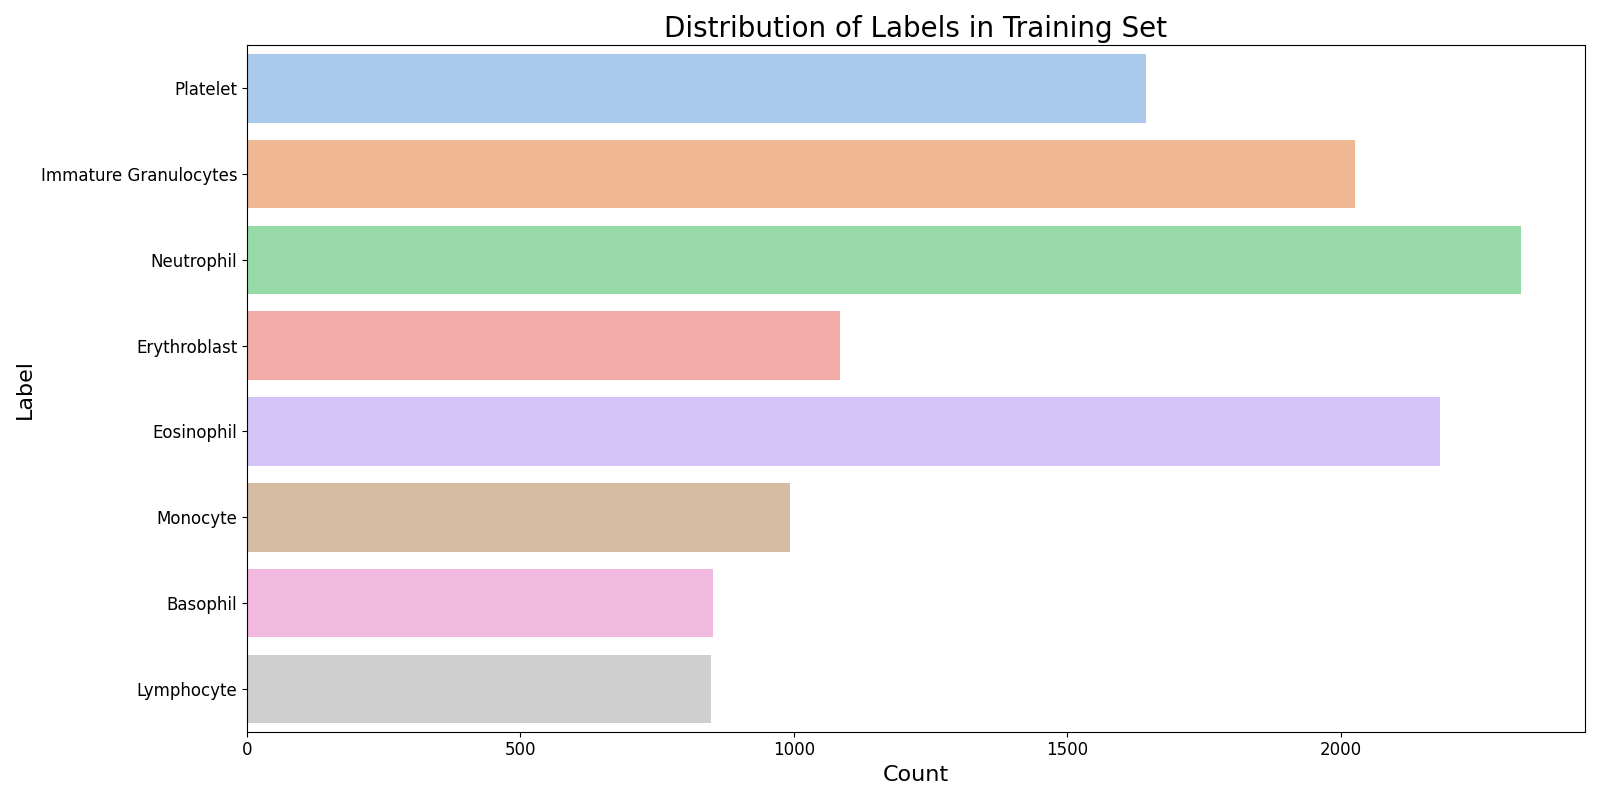
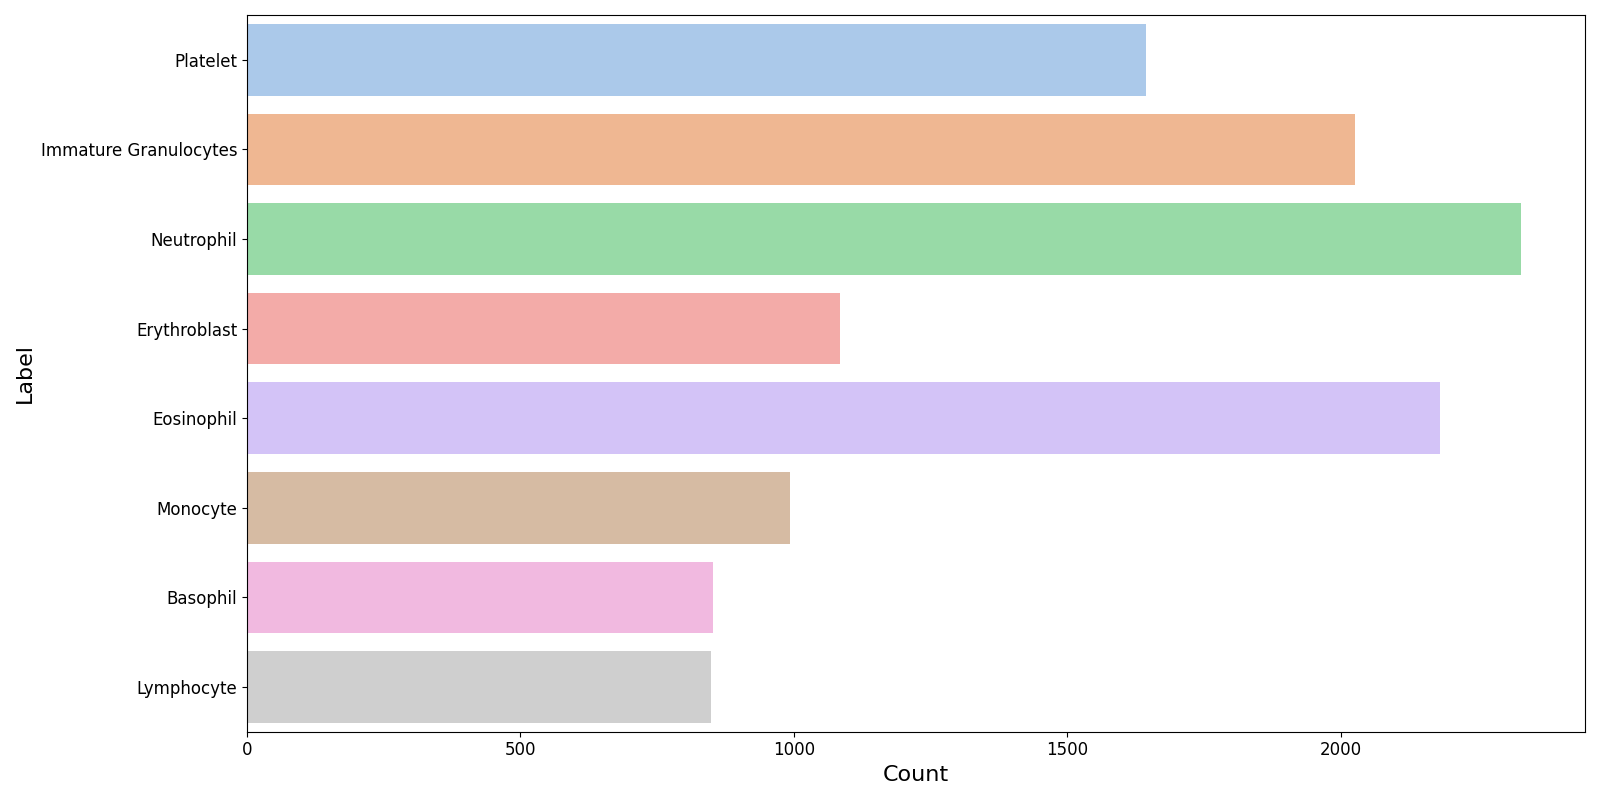
added plot

diff --git a/data_visualization.py b/data_visualization.py
@@ -71,9 +71,30 @@ print(df_label_counts)
 # Plot the distribution of labels
 plt.figure(figsize=(16, 8))
 sns.countplot(y='Label', data=df_labels, palette='pastel')
-plt.title('Distribution of Labels in Training Set', fontsize=20)
+# plt.title('Distribution of Labels in Training Set', fontsize=20)
 plt.xlabel('Count', fontsize=16)
 plt.ylabel('Label', fontsize=16)
 plt.tick_params(axis='both', which='major', labelsize=12)
 plt.tight_layout()
 plt.savefig("plots/train_label_distribution.png")
+
+
+# 3. Visualize the first three images for each label category
+images_array = data_blood_train.imgs
+labels_array = data_blood_train.labels.flatten()
+
+# Create a figure with subplots
+fig, axes = plt.subplots(nrows=5, ncols=len(label_names), figsize=(15, 10))
+
+# Loop through each category and corresponding images
+for i, label in enumerate(label_names.keys()):
+    label_images = images_array[labels_array == label][:5]  # Select first three images for the category
+    for j, image in enumerate(label_images):
+        # Plot each image
+        axes[j, i].imshow(np.array(image))
+        axes[j, i].set_title(f'{label_names[label]}')
+        axes[j, i].axis('off')
+
+plt.tight_layout()
+plt.savefig("plots/cell_type_examples.png")
+
